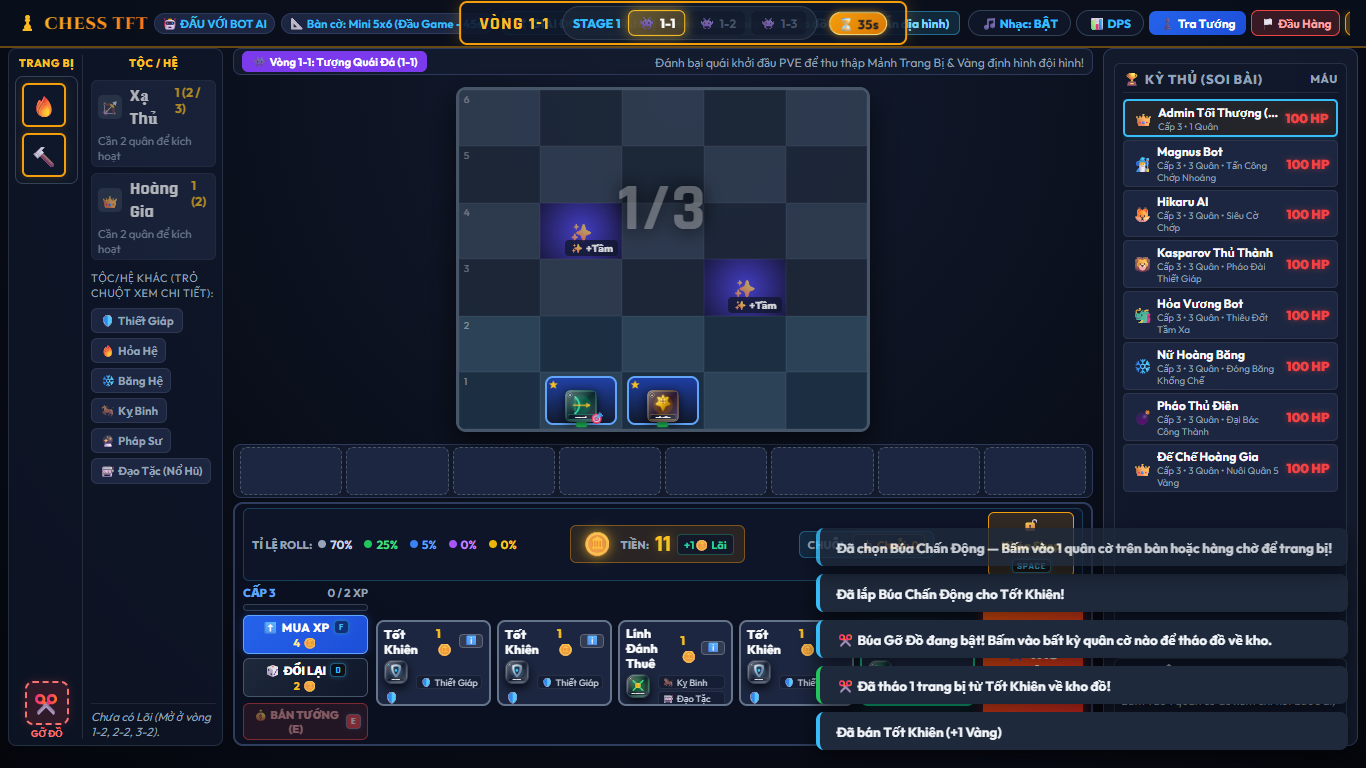
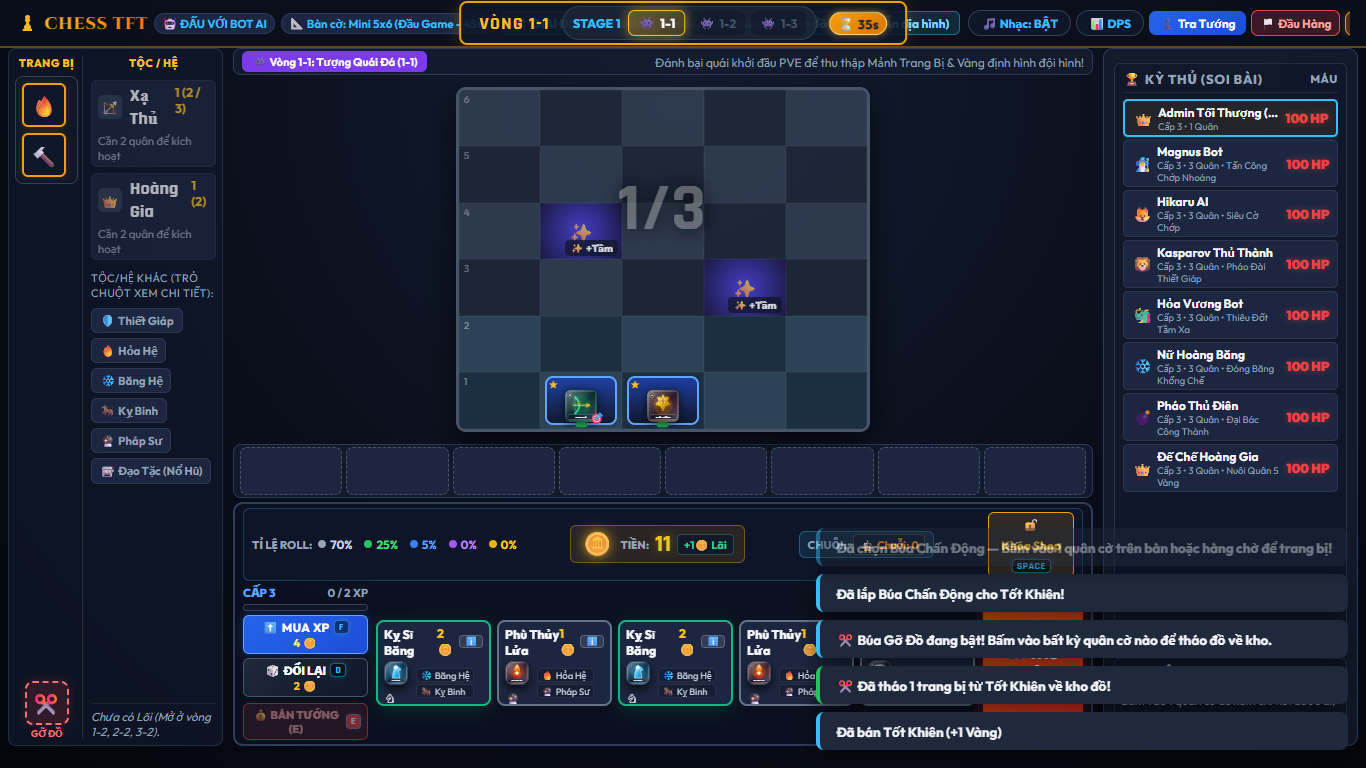
fix(preview): tach biet ro rang preview quan chua ra san bang Floating Mini-Grid 5x5 Tooltip thay vi to mau gia dinh tren ban co

Changed region(s): [[0.2767, 0.8125, 0.6149, 0.9375], [0.5842, 0.6875, 0.9839, 0.75]]

diff --git a/js/main.js b/js/main.js
@@ -2094,8 +2094,9 @@ class ChessTFTApp {
         return grid;
     }
 
-    highlightPieceMovementPreview(pieceId, centerR = null, centerC = null) {
+    highlightPieceMovementPreview(pieceId, centerR, centerC) {
         this.clearMovementPreview();
+        if (!Number.isInteger(centerR) || !Number.isInteger(centerC)) return;
         const boardEl = document.getElementById("chess-board");
         if (!boardEl) return;
 
@@ -2103,9 +2104,8 @@ class ChessTFTApp {
         const totalRows = cfg.rows;
         const totalCols = cfg.cols;
 
-        // Default position for bench previews: center of player's front deploy row
-        const r0 = Number.isInteger(centerR) ? centerR : (totalRows - cfg.deployRows);
-        const c0 = Number.isInteger(centerC) ? centerC : Math.floor(totalCols / 2);
+        const r0 = centerR;
+        const c0 = centerC;
 
         const grid = this.getPieceMovementGrid(pieceId);
         // grid is 5x5, center is (2,2)
@@ -5260,6 +5260,108 @@ class ChessTFTApp {
         if (tipEl) tipEl.classList.add("hidden");
     }
 
+    showPieceMovementTooltip(pieceId, evt) {
+        const def = window.CHESS_TFT_DATA.PIECES[pieceId];
+        if (!def) return;
+
+        const tipEl = document.getElementById("piece-movement-tooltip");
+        if (!tipEl) return;
+
+        const grid = this.getPieceMovementGrid(pieceId);
+        let cellsHtml = "";
+        let hasMove = false;
+        let hasAttack = false;
+        let hasJump = false;
+        let hasPawnAtk = false;
+        let hasCannon = false;
+
+        for (let r = 0; r < 5; r++) {
+            for (let c = 0; c < 5; c++) {
+                const cellType = grid[r][c];
+                const isLight = (r + c) % 2 === 0;
+                let cellClass = `pmt-cell ${isLight ? "cell-light" : "cell-dark"}`;
+                let cellContent = "";
+
+                if (cellType === "center") {
+                    cellClass += " cell-center";
+                    cellContent = "♟";
+                } else if (cellType === "move") {
+                    cellClass += " cell-move";
+                    cellContent = "•";
+                    hasMove = true;
+                } else if (cellType === "attack") {
+                    cellClass += " cell-attack";
+                    cellContent = "🎯";
+                    hasAttack = true;
+                } else if (cellType === "jump") {
+                    cellClass += " cell-jump";
+                    cellContent = "⚡";
+                    hasJump = true;
+                } else if (cellType === "pawn-atk") {
+                    cellClass += " cell-pawn-atk";
+                    cellContent = "⚔";
+                    hasPawnAtk = true;
+                } else if (cellType === "cannon") {
+                    cellClass += " cell-cannon";
+                    cellContent = "💣";
+                    hasCannon = true;
+                }
+
+                cellsHtml += `<div class="${cellClass}">${cellContent}</div>`;
+            }
+        }
+
+        tipEl.innerHTML = `
+            <div class="pmt-header">
+                <div class="pmt-icon">${def.icon}</div>
+                <div>
+                    <div class="pmt-title">${def.name}</div>
+                    <div class="pmt-sub">🎯 Tầm: ${def.range[0]} ô • 🛡 ${def.baseHp[0]} HP</div>
+                </div>
+            </div>
+            <div class="pmt-board-wrap">
+                <div class="pmt-mini-board">${cellsHtml}</div>
+            </div>
+            <div class="pmt-legend">
+                <div class="pmt-legend-item"><span style="color:#38bdf8;">♟</span> Quân cờ</div>
+                ${hasMove ? '<div class="pmt-legend-item"><span style="color:#22c55e;">🟢</span> Đi</div>' : ''}
+                ${hasAttack ? '<div class="pmt-legend-item"><span style="color:#c084fc;">🎯</span> Tầm bắn</div>' : ''}
+                ${hasJump ? '<div class="pmt-legend-item"><span style="color:#fbbf24;">⚡</span> Nhảy</div>' : ''}
+                ${hasPawnAtk ? '<div class="pmt-legend-item"><span style="color:#ef4444;">⚔</span> Ăn chéo</div>' : ''}
+                ${hasCannon ? '<div class="pmt-legend-item"><span style="color:#f97316;">💣</span> Pháo</div>' : ''}
+            </div>
+        `;
+
+        tipEl.classList.remove("hidden");
+        this.movePieceMovementTooltip(evt);
+    }
+
+    movePieceMovementTooltip(evt) {
+        if (!evt) return;
+        const tipEl = document.getElementById("piece-movement-tooltip");
+        if (!tipEl || tipEl.classList.contains("hidden")) return;
+
+        const pad = 14;
+        let x = evt.clientX + pad;
+        let y = evt.clientY + pad;
+
+        const rect = tipEl.getBoundingClientRect();
+        if (x + rect.width > window.innerWidth - 10) {
+            x = Math.max(10, evt.clientX - rect.width - pad);
+        }
+        if (y + rect.height > window.innerHeight - 10) {
+            y = Math.max(10, window.innerHeight - rect.height - 10);
+        }
+
+        tipEl.style.left = `${x}px`;
+        tipEl.style.top = `${y}px`;
+    }
+
+    hidePieceMovementTooltip() {
+        const tipEl = document.getElementById("piece-movement-tooltip");
+        if (tipEl) tipEl.classList.add("hidden");
+    }
+
     // ========================================================================
     // RENDER CHESS BOARD (PREP, BLIND-MAP SCOUTING & LIVE BLITZ COMBAT)
     // ========================================================================
@@ -5760,20 +5862,28 @@ class ChessTFTApp {
                 slotEl.innerHTML = `<span class="bench-empty-label">Hàng chờ ${i + 1}</span>`;
             }
 
-            slotEl.addEventListener("mouseenter", () => {
+            slotEl.addEventListener("mouseenter", (e) => {
                 if (unit) {
                     this.hoveredUnit = { type: "bench", unit, slotIndex: i, uid: unit.uid };
                     slotEl.classList.add("bench-hover-target");
-                    this.highlightPieceMovementPreview(unit.id);
+                    this.clearMovementPreview();
+                    this.showPieceMovementTooltip(unit.id, e);
                 } else {
                     this.hoveredBenchSlot = i;
                     this.hoveredUnit = null;
                     this.clearMovementPreview();
+                    this.hidePieceMovementTooltip();
+                }
+            });
+            slotEl.addEventListener("mousemove", (e) => {
+                if (unit) {
+                    this.movePieceMovementTooltip(e);
                 }
             });
             slotEl.addEventListener("mouseleave", () => {
                 slotEl.classList.remove("bench-hover-target");
                 this.clearMovementPreview();
+                this.hidePieceMovementTooltip();
                 if (this.hoveredUnit && this.hoveredUnit.uid === (unit && unit.uid)) {
                     this.hoveredUnit = null;
                 }
@@ -5961,13 +6071,30 @@ class ChessTFTApp {
             // Attach Synergy Tooltip when hovering trait pills inside Shop cards
             card.querySelectorAll(".shop-trait-pill").forEach(pill => {
                 const tId = pill.getAttribute("data-trait-id");
-                pill.addEventListener("mouseenter", (e) => this.showSynergyTooltip(tId, e, this.tft.player));
+                pill.addEventListener("mouseenter", (e) => {
+                    this.hidePieceMovementTooltip();
+                    this.showSynergyTooltip(tId, e, this.tft.player);
+                });
                 pill.addEventListener("mousemove", (e) => this.moveSynergyTooltip(e));
                 pill.addEventListener("mouseleave", () => this.hideSynergyTooltip());
             });
 
+            card.addEventListener("mouseenter", (e) => {
+                // Don't show piece tooltip if currently hovering synergy pill or guide button
+                if (e.target.closest(".shop-trait-pill") || e.target.closest(".shop-guide-btn")) return;
+                this.showPieceMovementTooltip(def.id, e);
+            });
+            card.addEventListener("mousemove", (e) => {
+                if (!document.getElementById("synergy-tooltip")?.classList.contains("hidden")) return;
+                this.movePieceMovementTooltip(e);
+            });
+            card.addEventListener("mouseleave", () => {
+                this.hidePieceMovementTooltip();
+            });
+
             card.addEventListener("click", () => {
                 this.hideSynergyTooltip();
+                this.hidePieceMovementTooltip();
                 const res = this.tft.buyShopUnit(slot.slotIndex);
                 if (res.ok) {
                     if (res.merged) {

diff --git a/styles.css b/styles.css
@@ -4596,6 +4596,135 @@ button {
     font-weight: 700;
 }
 
+/* ========================================================================
+   FLOATING PIECE MOVEMENT MINI-GRID TOOLTIP (HÀNG CHỜ & CỬA HÀNG)
+   ======================================================================== */
+.piece-movement-tooltip {
+    position: fixed;
+    z-index: 9999;
+    background: rgba(11, 19, 38, 0.96);
+    border: 1px solid rgba(56, 189, 248, 0.45);
+    border-radius: 12px;
+    padding: 10px 12px;
+    box-shadow: 0 16px 36px rgba(0, 0, 0, 0.75), 0 0 16px rgba(56, 189, 248, 0.2);
+    pointer-events: none;
+    backdrop-filter: blur(8px);
+    width: 200px;
+    transition: opacity 0.12s ease;
+    animation: fadeInTooltip 0.15s ease-out;
+}
+
+.piece-movement-tooltip.hidden {
+    display: none !important;
+}
+
+.pmt-header {
+    display: flex;
+    align-items: center;
+    gap: 8px;
+    margin-bottom: 8px;
+    padding-bottom: 6px;
+    border-bottom: 1px solid rgba(255, 255, 255, 0.08);
+}
+
+.pmt-icon {
+    font-size: 1.3rem;
+    line-height: 1;
+}
+
+.pmt-title {
+    font-weight: 800;
+    font-size: 0.82rem;
+    color: #f8fafc;
+}
+
+.pmt-sub {
+    font-size: 0.68rem;
+    color: #94a3b8;
+}
+
+.pmt-board-wrap {
+    display: flex;
+    justify-content: center;
+    margin-bottom: 6px;
+}
+
+.pmt-mini-board {
+    display: grid;
+    grid-template-columns: repeat(5, 26px);
+    grid-template-rows: repeat(5, 26px);
+    gap: 2px;
+    background: #030712;
+    padding: 3px;
+    border-radius: 6px;
+    border: 1.5px solid #334155;
+    user-select: none;
+}
+
+.pmt-cell {
+    display: flex;
+    align-items: center;
+    justify-content: center;
+    font-size: 0.72rem;
+    border-radius: 3px;
+    background: #0f172a;
+}
+
+.pmt-cell.cell-light {
+    background: #1e293b;
+}
+
+.pmt-cell.cell-center {
+    background: rgba(56, 189, 248, 0.45) !important;
+    border: 1.5px solid #38bdf8;
+    box-shadow: 0 0 6px rgba(56, 189, 248, 0.6);
+}
+
+.pmt-cell.cell-move {
+    background: rgba(34, 197, 94, 0.35) !important;
+    border: 1px solid #22c55e;
+    color: #4ade80;
+}
+
+.pmt-cell.cell-attack {
+    background: rgba(192, 132, 252, 0.38) !important;
+    border: 1px solid #c084fc;
+    color: #e879f9;
+}
+
+.pmt-cell.cell-jump {
+    background: rgba(251, 191, 36, 0.35) !important;
+    border: 1px solid #fbbf24;
+    color: #fde047;
+}
+
+.pmt-cell.cell-pawn-atk {
+    background: rgba(239, 68, 68, 0.38) !important;
+    border: 1px solid #ef4444;
+    color: #f87171;
+}
+
+.pmt-cell.cell-cannon {
+    background: rgba(249, 115, 22, 0.38) !important;
+    border: 1px solid #f97316;
+    color: #fdba74;
+}
+
+.pmt-legend {
+    display: flex;
+    flex-wrap: wrap;
+    gap: 4px 8px;
+    font-size: 0.64rem;
+    color: #94a3b8;
+    line-height: 1.3;
+}
+
+.pmt-legend-item {
+    display: flex;
+    align-items: center;
+    gap: 3px;
+}
+
 /* 5x5 BOARD VISUALIZER */
 .guide-board-wrap {
     display: flex;

diff --git a/qa_feedback_test.js b/qa_feedback_test.js
@@ -101,6 +101,12 @@ const fs = require('fs');
         // Buy a piece into bench or place it, then hover
         const shopCard = await page.$(".shop-card");
         if (shopCard) {
+            await shopCard.hover();
+            await page.waitForTimeout(300);
+            const shopTooltipVisible = await page.$eval("#piece-movement-tooltip", el => !el.classList.contains("hidden")).catch(() => false);
+            console.log(`-> Tooltip Mini Grid 5x5 khi hover vào thẻ bài Shop: ${shopTooltipVisible ? "HIỂN THỊ ✅" : "CHƯA HIỆN ❌"}`);
+            await page.screenshot({ path: path.join(screenshotDir, "test_shop_hover_tooltip.png") });
+
             await shopCard.click();
             await page.waitForTimeout(400);
         }
@@ -109,10 +115,21 @@ const fs = require('fs');
         if (benchSlotWithPiece) {
             await benchSlotWithPiece.hover();
             await page.waitForTimeout(300);
-            const previewCellsCount = await page.$$eval("#chess-board .cell-preview-move, #chess-board .cell-preview-attack", els => els.length);
-            console.log(`-> Số ô xem trước nước đi khi rê chuột lên hàng chờ: ${previewCellsCount} (Mong muốn: > 0)`);
-            await page.screenshot({ path: path.join(screenshotDir, "test_hover_preview.png") });
-            console.log("📸 Đã chụp test_hover_preview.png");
+            const benchTooltipVisible = await page.$eval("#piece-movement-tooltip", el => !el.classList.contains("hidden")).catch(() => false);
+            const boardFakePreviewCount = await page.$$eval("#chess-board .cell-preview-move, #chess-board .cell-preview-attack", els => els.length);
+            console.log(`-> Tooltip Mini Grid 5x5 khi hover Hàng Chờ: ${benchTooltipVisible ? "HIỂN THỊ ✅" : "CHƯA HIỆN ❌"}`);
+            console.log(`-> Số ô bị tô màu giả định trên sàn đấu khi hover Hàng Chờ: ${boardFakePreviewCount} (Mong muốn: 0)`);
+            await page.screenshot({ path: path.join(screenshotDir, "test_bench_hover_tooltip.png") });
+        }
+
+        // Test board piece hover (quân đã đặt trên sàn đấu thực tế)
+        const boardPiece = await page.$("#chess-board .chess-piece");
+        if (boardPiece) {
+            await boardPiece.hover();
+            await page.waitForTimeout(300);
+            const boardPreviewCount = await page.$$eval("#chess-board .cell-preview-move, #chess-board .cell-preview-attack", els => els.length);
+            console.log(`-> Số ô tầm đánh/nước đi khi hover quân ĐÃ TRÊN SÀN ĐẤU: ${boardPreviewCount} (Mong muốn: > 0)`);
+            await page.screenshot({ path: path.join(screenshotDir, "test_board_piece_hover.png") });
         }
 
         // 7. Test Hover Piece Range in Combat Phase

diff --git a/index.html b/index.html
@@ -1120,6 +1120,9 @@
     <!-- FLOATING ITEM TOOLTIP (HIỂN THỊ CHỨC NĂNG TRANG BỊ & NÚT GỠ ĐỒ) -->
     <div id="item-tooltip" class="item-tooltip hidden"></div>
 
+    <!-- FLOATING PIECE MOVEMENT MINI-GRID TOOLTIP (HÀNG CHỜ & CỬA HÀNG) -->
+    <div id="piece-movement-tooltip" class="piece-movement-tooltip hidden"></div>
+
     <div id="toast-container" class="toast-container"></div>
 
     <!-- SCRIPTS -->

diff --git a/PROJECT_CONTEXT.md b/PROJECT_CONTEXT.md
@@ -100,9 +100,10 @@ f:\chesstft\
 9. **Tối Ưu Bố Cục Không Gian 1366x768 & Trải Nghiệm Chuẩn Bị (Prep Phase UX) ⏳**:
    - **Tăng Thời Gian Chuẩn Bị (+10s)**: Nâng thời gian chuẩn bị từ 30s lên 40s (mặc định badge hiển thị `⏳ 40s`), giúp người chơi có đủ thời gian mua sắm, roll thẻ bài, quan sát đối thủ và sắp xếp chiến thuật.
    - **Thêm Nhạc Nền Giai Đoạn Chuẩn Bị (Soundtrack Expansion)**: Tích hợp thêm bản nhạc giao hưởng chuẩn bị chiến thuật mới `assets/audio/expedition33_prep.webm` ("Camp Preparation - Tactical Briefing"), tự động luân phiên giữa các vòng/stage cùng bản nhạc truyền thống giúp trải nghiệm âm thanh phong phú và thư giãn hơn.
-   - **Rê Chuột Xem Trước Nước Đi & Ô Tấn Công Tức Thì Cả Chuẩn Bị & Trong Trận (Instant Hover Movement & Attack Range)**:
-     - **Giai đoạn chuẩn bị:** Khi rê chuột vào bất kỳ quân cờ nào trên sàn đấu hoặc hàng chờ (Bench), bàn cờ lập tức kích hoạt visual indicator hiển thị vùng di chuyển và tầm đánh.
-     - **Trong trận giao tranh (Combat Phase):** Khi rê chuột lên bất kỳ quân cờ nào (cả quân phe ta lẫn quân phe địch), hệ thống gọi trực tiếp engine `this.chess.getPieceActions(r, c, true)` để hiển thị chính xác mọi ô quân đó có thể di chuyển (vòng tròn xanh ngọc `.cell-preview-move`) hoặc tầm tấn công/bắn xa/ăn quân (tâm ngắm hổ phách `.cell-preview-attack`), giúp kỳ thủ nắm bắt nước đi và tầm đe dọa của đối thủ ngay trong lúc chiến đấu mà không làm mất trạng thái chọn quân.
+   - **Rê Chuột Xem Trước Nước Đi & Ô Tấn Công Tức Thì Chuẩn Esports (Instant Hover Range & Movement)**:
+     - **Quân trên Sàn Đấu (Prep & Combat):** Khi rê chuột lên bất kỳ quân cờ nào đã ra sân (cả quân ta và địch), bàn cờ kích hoạt visual indicator hiển thị chính xác vùng di chuyển (vòng tròn xanh ngọc `.cell-preview-move`) và tầm tấn công/bắn xa (tâm ngắm hổ phách `.cell-preview-attack`) xoay quanh đúng tọa độ thực tế của quân đó.
+     - **Quân ở Hàng Chờ (Bench) & Cửa Hàng (Shop):** Loại bỏ hoàn toàn việc tô màu giả định ở hàng 2 trung tâm bàn cờ. Thay vào đó, ngay cạnh con trỏ chuột lập tức hiển thị một **Floating Mini-Grid 5x5 Tooltip** sắc nét, mô phỏng trực tiếp sơ đồ di chuyển, tầm bắn xa, nhảy chữ L, ăn chéo và đại bác nổ giúp người chơi nắm rõ công năng quân cờ trước khi mua hoặc trước khi đưa ra sàn đấu.
+     - **Trong trận giao tranh (Combat Phase):** Khi rê chuột lên bất kỳ quân cờ nào (cả phe ta lẫn phe địch), hệ thống gọi trực tiếp engine `this.chess.getPieceActions(r, c, true)` để hiển thị chính xác mọi ô quân đó có thể di chuyển hoặc tầm tấn công/bắn xa/ăn quân mà không làm mất quân đang chọn.
    - **Tối Ưu Hóa Không Gian Sàn Đấu & Cột Phải**: 
      - Mở rộng kích thước bàn cờ trung tâm tại màn hình 1366x768 (`width: min(520px, 54vh)`, `height: min(440px, 45vh)`), khắc phục khoảng trống thừa bên phải bàn cờ.
      - Tự động ẩn cụm đồng hồ Cờ Chớp (`custom-clocks-box`) trong giai đoạn chuẩn bị để dồn không gian cho Bảng Xếp Hạng, Hộp Soi Quân và Biểu đồ DPS, chỉ hiển thị đồng hồ khi bắt đầu vào trận giao tranh.
